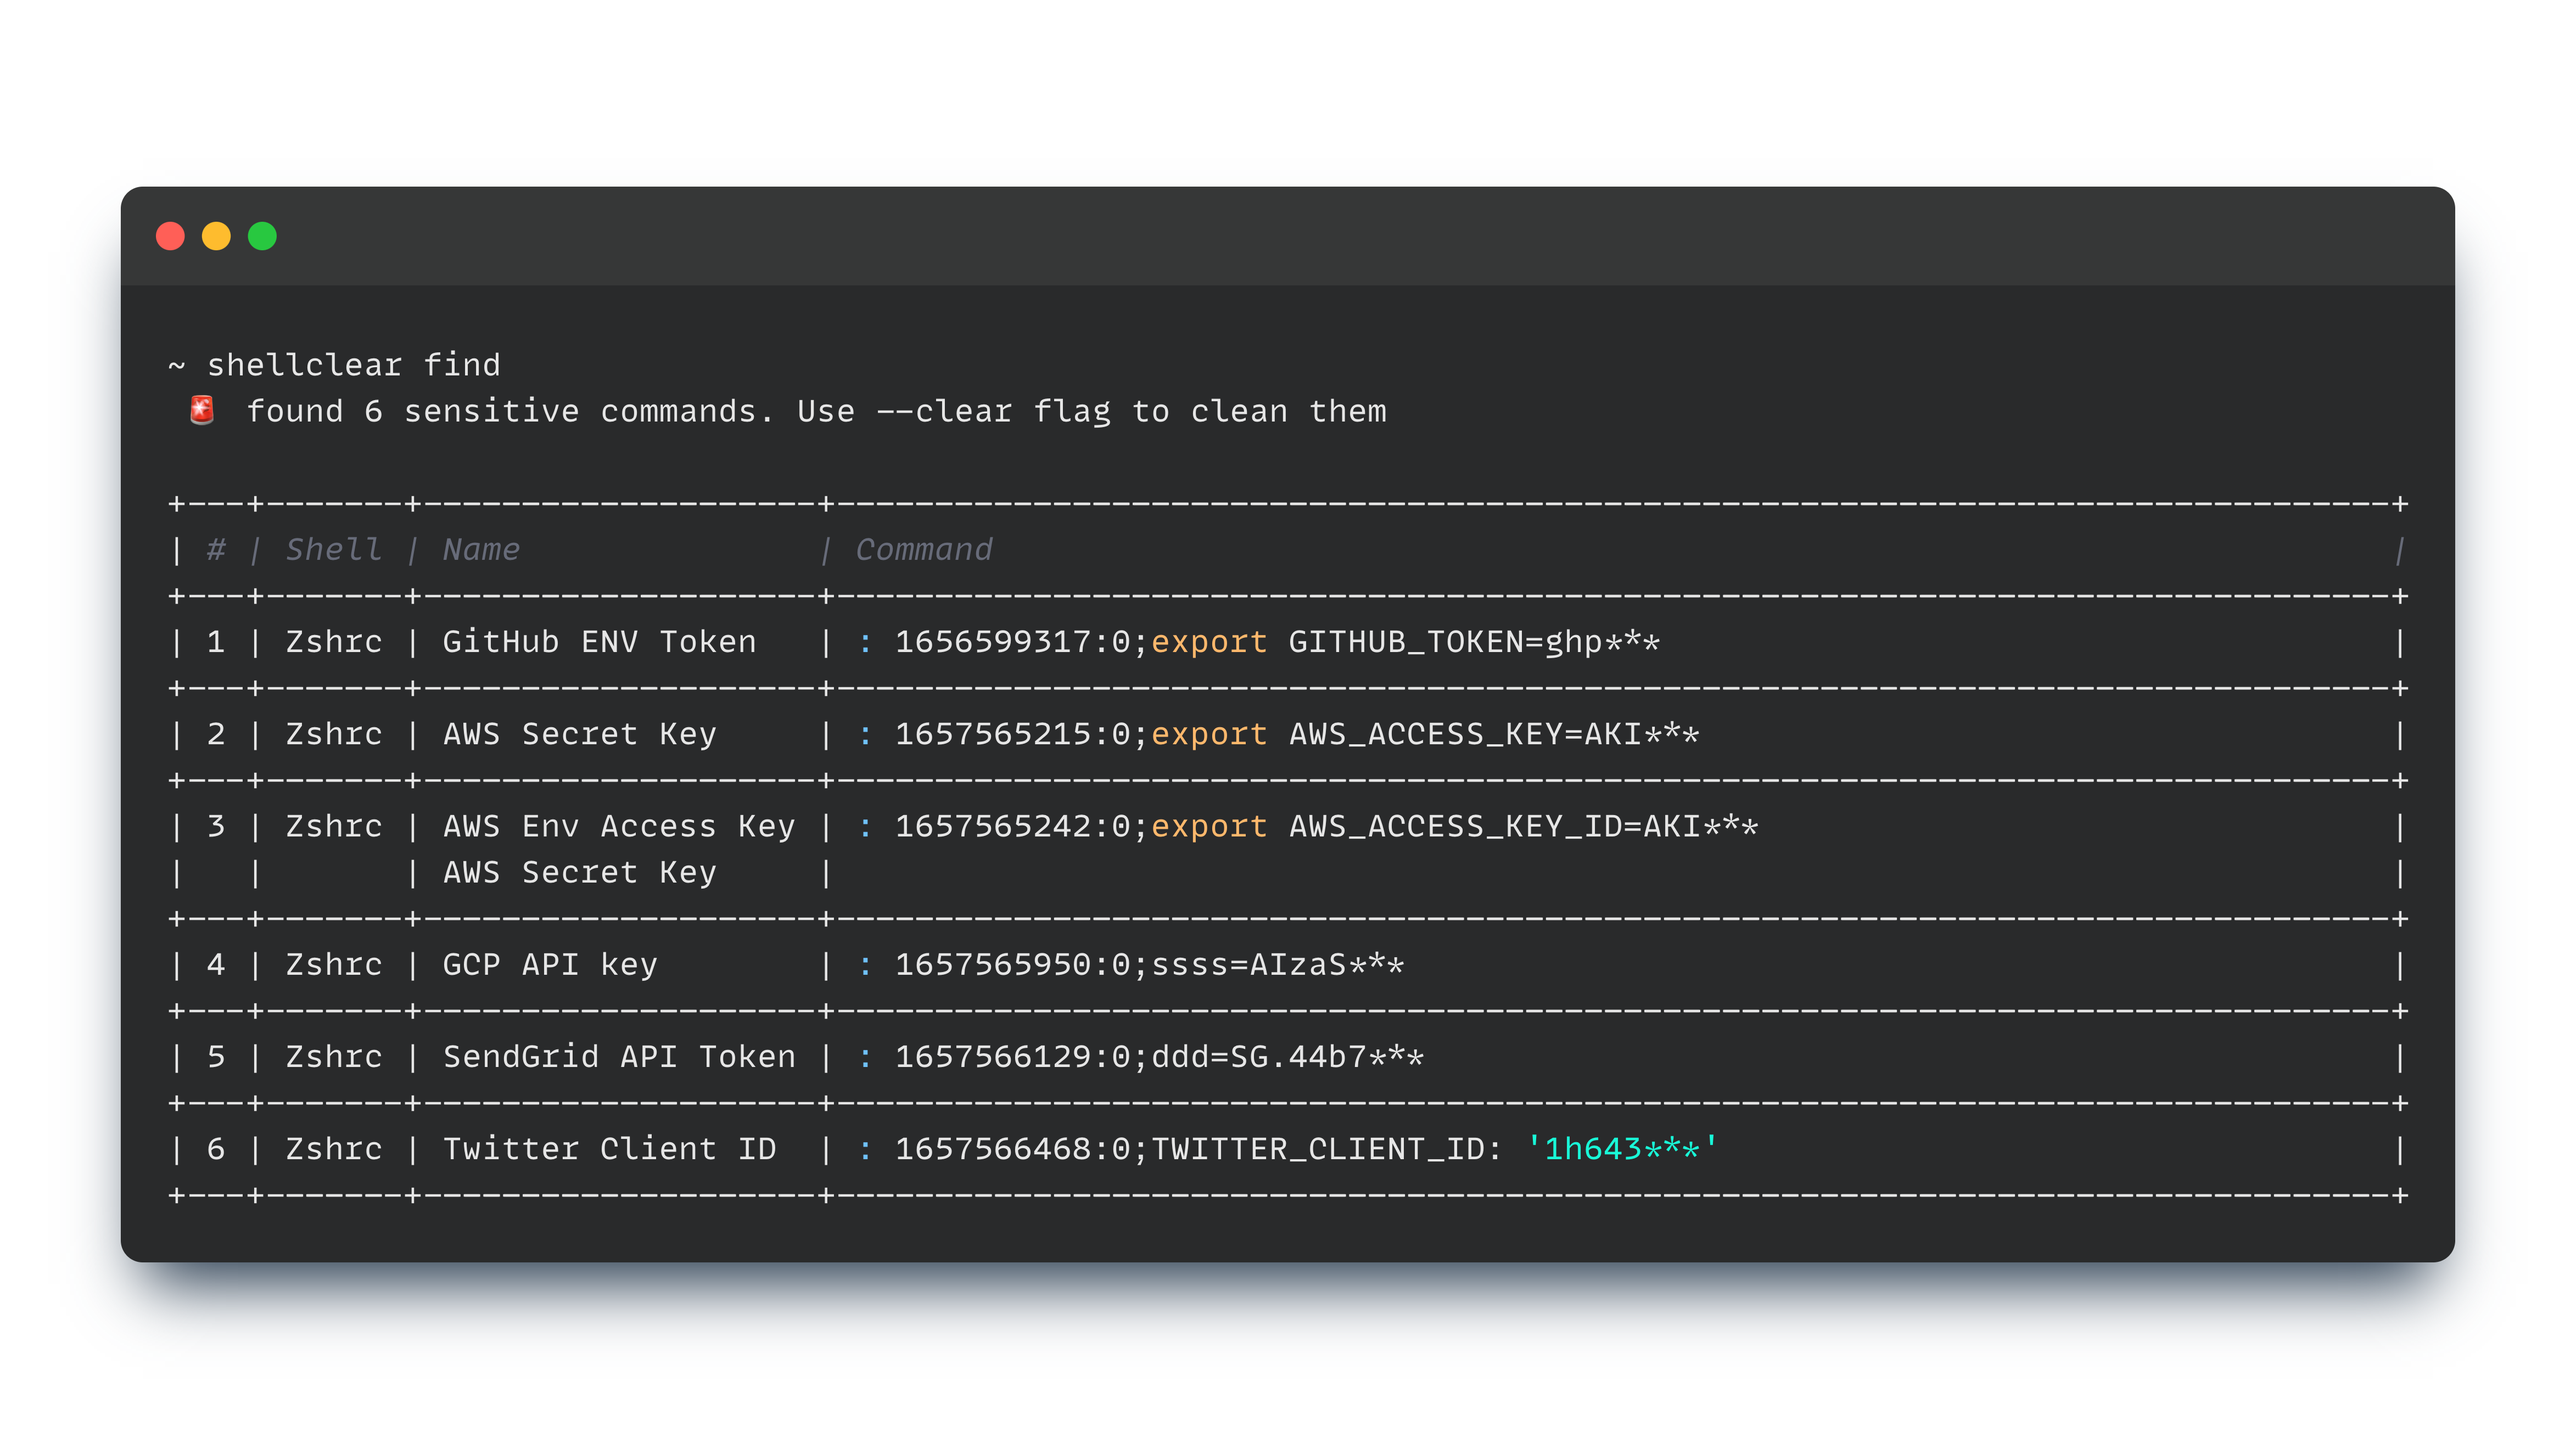
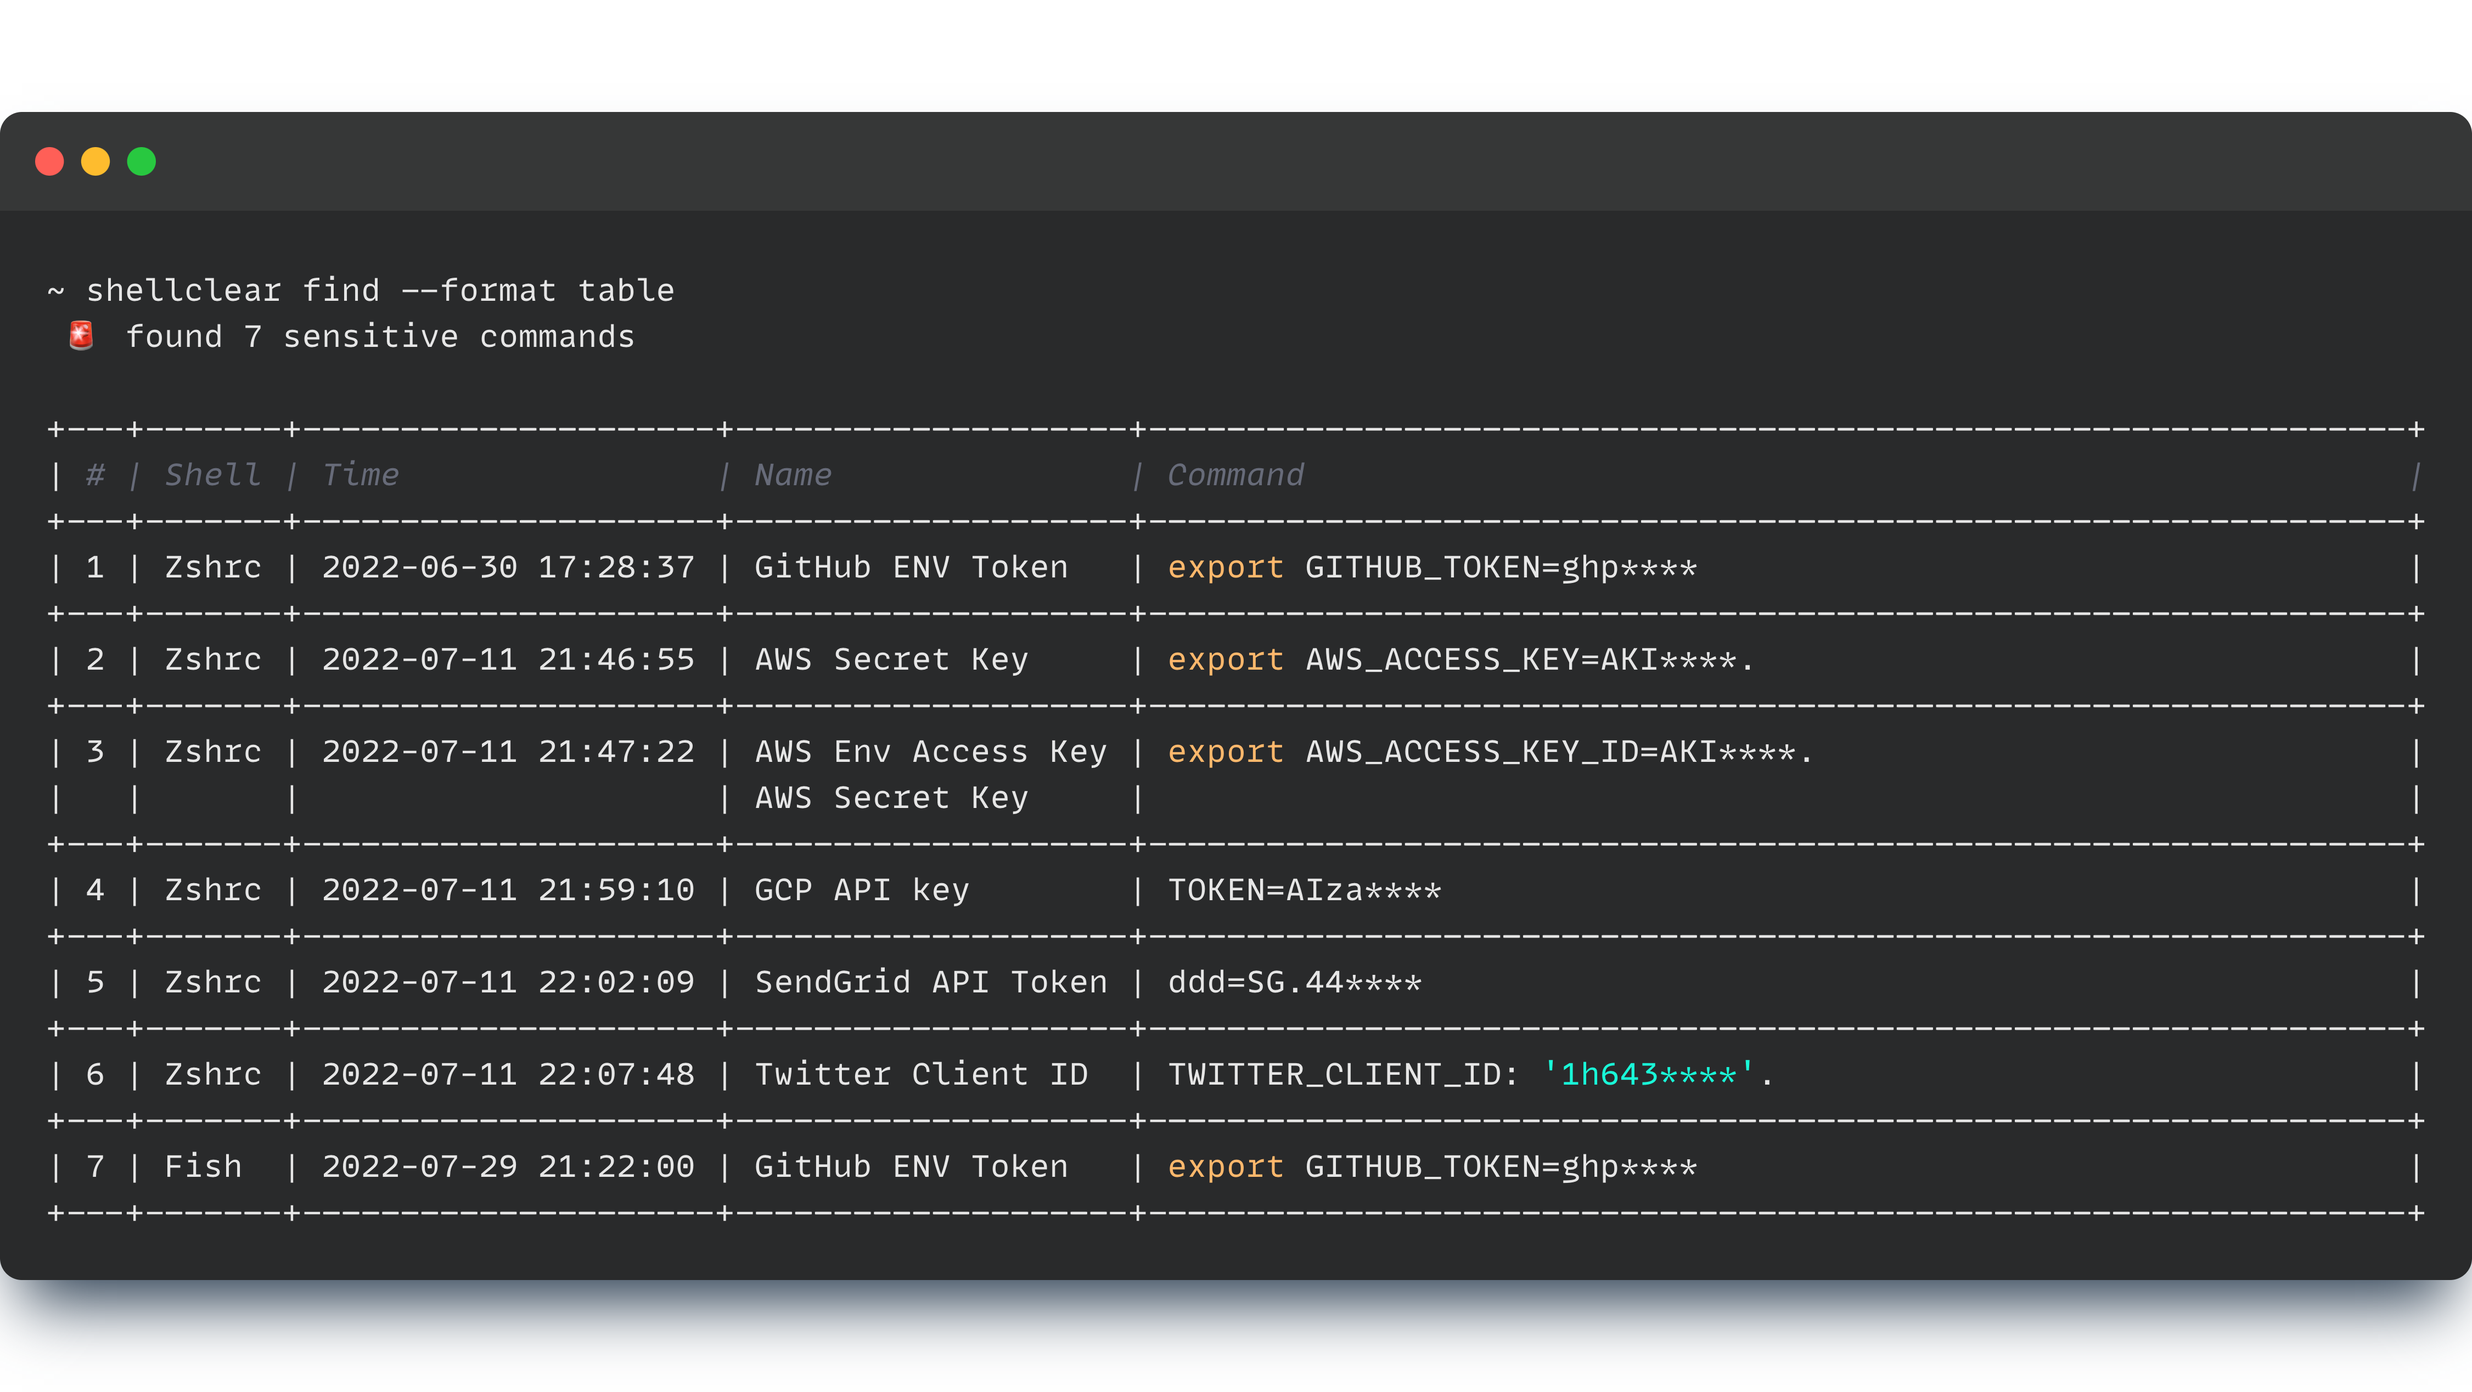
update README.md

Changed region(s): [[0.0, 0.0623, 1.0, 0.9657], [0.4663, 0.3427, 0.5284, 0.3738]]

diff --git a/README.md b/README.md
@@ -68,12 +68,9 @@ SUBCOMMANDS:
 ## :eyes: Find Sensitive Commands
 Sensetive data can be stored in your history file when export a token of something or running a script with token. 
 ```sh
-$ shellclear find
+$ shellclear find --format table
 ```
 ![find](./media/find.png)
-
-
-
 
 ### :broom: Clear findings :
 ```sh
